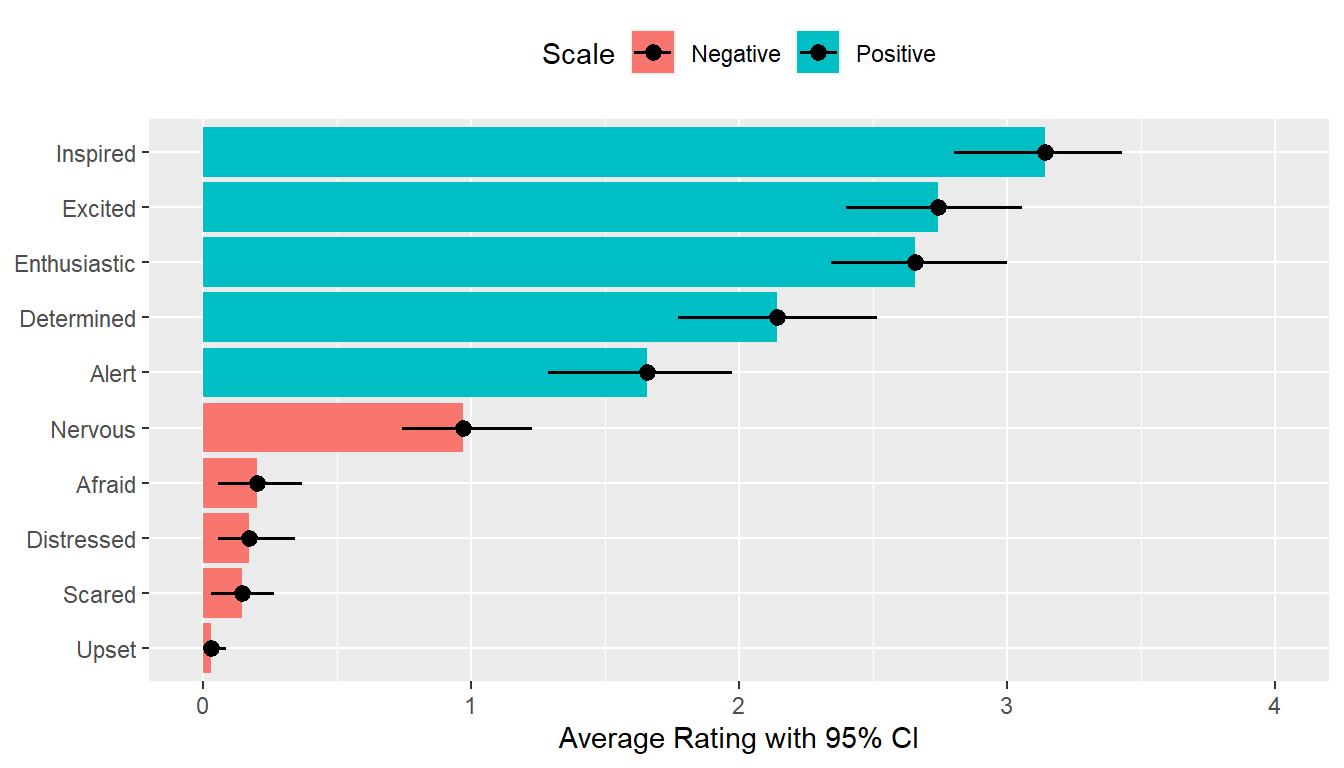
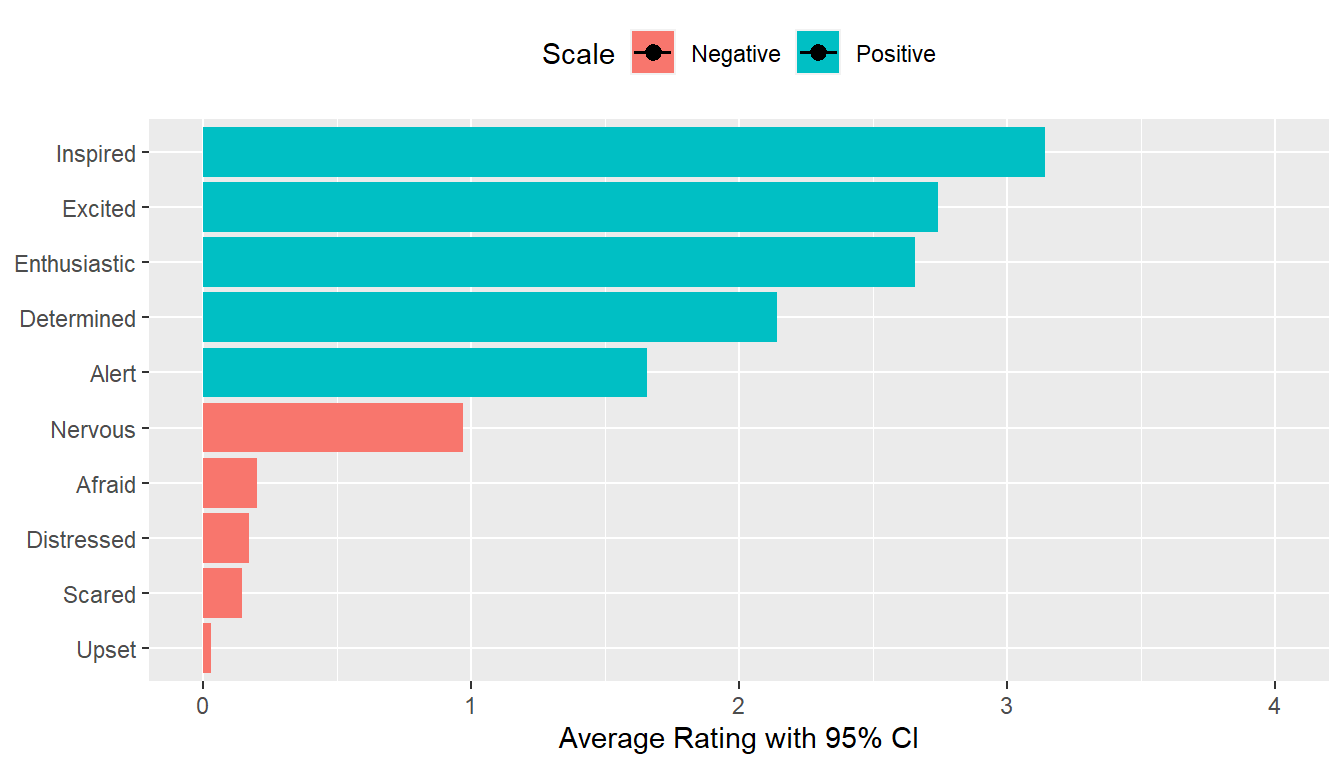
Set up index page and nav

diff --git a/_site/index.html b/_site/index.html
@@ -20,69 +20,6 @@ ul.task-list li input[type="checkbox"] {
   margin: 0 0.8em 0.2em -1.6em;
   vertical-align: middle;
 }
-pre > code.sourceCode { white-space: pre; position: relative; }
-pre > code.sourceCode > span { display: inline-block; line-height: 1.25; }
-pre > code.sourceCode > span:empty { height: 1.2em; }
-.sourceCode { overflow: visible; }
-code.sourceCode > span { color: inherit; text-decoration: inherit; }
-div.sourceCode { margin: 1em 0; }
-pre.sourceCode { margin: 0; }
-@media screen {
-div.sourceCode { overflow: auto; }
-}
-@media print {
-pre > code.sourceCode { white-space: pre-wrap; }
-pre > code.sourceCode > span { text-indent: -5em; padding-left: 5em; }
-}
-pre.numberSource code
-  { counter-reset: source-line 0; }
-pre.numberSource code > span
-  { position: relative; left: -4em; counter-increment: source-line; }
-pre.numberSource code > span > a:first-child::before
-  { content: counter(source-line);
-    position: relative; left: -1em; text-align: right; vertical-align: baseline;
-    border: none; display: inline-block;
-    -webkit-touch-callout: none; -webkit-user-select: none;
-    -khtml-user-select: none; -moz-user-select: none;
-    -ms-user-select: none; user-select: none;
-    padding: 0 4px; width: 4em;
-    color: #aaaaaa;
-  }
-pre.numberSource { margin-left: 3em; border-left: 1px solid #aaaaaa;  padding-left: 4px; }
-div.sourceCode
-  {   }
-@media screen {
-pre > code.sourceCode > span > a:first-child::before { text-decoration: underline; }
-}
-code span.al { color: #ff0000; font-weight: bold; } /* Alert */
-code span.an { color: #60a0b0; font-weight: bold; font-style: italic; } /* Annotation */
-code span.at { color: #7d9029; } /* Attribute */
-code span.bn { color: #40a070; } /* BaseN */
-code span.bu { color: #008000; } /* BuiltIn */
-code span.cf { color: #007020; font-weight: bold; } /* ControlFlow */
-code span.ch { color: #4070a0; } /* Char */
-code span.cn { color: #880000; } /* Constant */
-code span.co { color: #60a0b0; font-style: italic; } /* Comment */
-code span.cv { color: #60a0b0; font-weight: bold; font-style: italic; } /* CommentVar */
-code span.do { color: #ba2121; font-style: italic; } /* Documentation */
-code span.dt { color: #902000; } /* DataType */
-code span.dv { color: #40a070; } /* DecVal */
-code span.er { color: #ff0000; font-weight: bold; } /* Error */
-code span.ex { } /* Extension */
-code span.fl { color: #40a070; } /* Float */
-code span.fu { color: #06287e; } /* Function */
-code span.im { color: #008000; font-weight: bold; } /* Import */
-code span.in { color: #60a0b0; font-weight: bold; font-style: italic; } /* Information */
-code span.kw { color: #007020; font-weight: bold; } /* Keyword */
-code span.op { color: #666666; } /* Operator */
-code span.ot { color: #007020; } /* Other */
-code span.pp { color: #bc7a00; } /* Preprocessor */
-code span.sc { color: #4070a0; } /* SpecialChar */
-code span.ss { color: #bb6688; } /* SpecialString */
-code span.st { color: #4070a0; } /* String */
-code span.va { color: #19177c; } /* Variable */
-code span.vs { color: #4070a0; } /* VerbatimString */
-code span.wa { color: #60a0b0; font-weight: bold; font-style: italic; } /* Warning */
 </style>
 
 
@@ -143,13 +80,20 @@ code span.wa { color: #60a0b0; font-weight: bold; font-style: italic; } /* Warni
           <div class="collapse navbar-collapse" id="navbarCollapse">
             <ul class="navbar-nav navbar-nav-scroll me-auto">
   <li class="nav-item">
-    <a class="nav-link active" href="./index.html" aria-current="page">
- <span class="menu-text">Home</span></a>
+    <a class="nav-link" href="./overview.html">
+ <span class="menu-text">Overview</span></a>
   </li>  
-  <li class="nav-item">
-    <a class="nav-link" href="./about.html">
- <span class="menu-text">About</span></a>
+  <li class="nav-item dropdown ">
+    <a class="nav-link dropdown-toggle" href="#" id="nav-menu-film-clips" role="button" data-bs-toggle="dropdown" aria-expanded="false">
+ <span class="menu-text">Film Clips</span>
+    </a>
+    <ul class="dropdown-menu" aria-labelledby="nav-menu-film-clips">    
+        <li>
+    <a class="dropdown-item" href="./akeelah.html">
+ <span class="dropdown-text">Akeelah</span></a>
   </li>  
+    </ul>
+  </li>
 </ul>
               <div id="quarto-search" class="" title="Search"></div>
           </div> <!-- /navcollapse -->
@@ -183,14 +127,10 @@ code span.wa { color: #60a0b0; font-weight: bold; font-style: italic; } /* Warni
 
 </header>
 
-<p>This is a Quarto website.</p>
-<p>To learn more about Quarto websites visit <a href="https://quarto.org/docs/websites" class="uri">https://quarto.org/docs/websites</a>.</p>
-<div class="cell">
-<div class="sourceCode cell-code" id="cb1"><pre class="sourceCode r code-with-copy"><code class="sourceCode r"><span id="cb1-1"><a href="#cb1-1" aria-hidden="true" tabindex="-1"></a><span class="dv">1</span> <span class="sc">+</span> <span class="dv">1</span></span></code><button title="Copy to Clipboard" class="code-copy-button"><i class="bi"></i></button></pre></div>
-<div class="cell-output cell-output-stdout">
-<pre><code>[1] 2</code></pre>
-</div>
-</div>
+<p>This is the webpage for the film-dataset. Within you can find information about the dataset as a whole, about each film clip in the dataset, and about the dataset collection methodology. You can also download the clips and deidentified data for your own research.</p>
+<p><strong>Jeffrey M. Girard</strong>, PhD<br> Department of Psychology<br> University of Kansas<br> <a href="mailto:jmgirard@ku.edu" class="email">jmgirard@ku.edu</a></p>
+<p><strong>Einat Liebenthal</strong>, DSc<br> McLean Hospital<br> Harvard Medical School<br> <a href="mailto:eliebenthal@mclean.harvard.edu" class="email">eliebenthal@mclean.harvard.edu</a></p>
+<p><strong>Yanmei Tie</strong>, PhD, MS<br> Brigam and Women’s Hospital<br> Harvard Medical School<br> <a href="mailto:ytie@bwh.harvard.edu" class="email">ytie@bwh.harvard.edu</a></p>
 
 
 

diff --git a/_site/overview.html b/_site/overview.html
@@ -146,13 +146,20 @@ code span.wa { color: #60a0b0; font-weight: bold; font-style: italic; } /* Warni
           <div class="collapse navbar-collapse" id="navbarCollapse">
             <ul class="navbar-nav navbar-nav-scroll me-auto">
   <li class="nav-item">
-    <a class="nav-link" href="./index.html">
- <span class="menu-text">Home</span></a>
+    <a class="nav-link active" href="./overview.html" aria-current="page">
+ <span class="menu-text">Overview</span></a>
   </li>  
-  <li class="nav-item">
-    <a class="nav-link" href="./about.html">
- <span class="menu-text">About</span></a>
+  <li class="nav-item dropdown ">
+    <a class="nav-link dropdown-toggle" href="#" id="nav-menu-film-clips" role="button" data-bs-toggle="dropdown" aria-expanded="false">
+ <span class="menu-text">Film Clips</span>
+    </a>
+    <ul class="dropdown-menu" aria-labelledby="nav-menu-film-clips">    
+        <li>
+    <a class="dropdown-item" href="./akeelah.html">
+ <span class="dropdown-text">Akeelah</span></a>
   </li>  
+    </ul>
+  </li>
 </ul>
               <div id="quarto-search" class="" title="Search"></div>
           </div> <!-- /navcollapse -->
@@ -203,6 +210,11 @@ code span.wa { color: #60a0b0; font-weight: bold; font-style: italic; } /* Warni
 <h2 class="anchored" data-anchor-id="clip-information">Clip Information</h2>
 <p>The database currently includes 22 video clips, each drawn from a different English-language film and ranging from 130 to 425 seconds in duration (Mdn=238, MAD=96.4). The figure below shows the distribution of the clips’ durations. The table below presents each clip’s abbreviation, source film title (and release year), as well as starting and stopping timestamp in HH:MM:SS format, and duration in seconds.</p>
 <div class="cell">
+<div class="cell-output cell-output-stderr">
+<pre><code>Warning: The `groupOnX` argument of `geom_quasirandom()` is deprecated as of ggbeeswarm
+0.7.1.
+ℹ ggplot2 now handles this case automatically.</code></pre>
+</div>
 <div class="cell-output-display">
 <p><img src="overview_files/figure-html/unnamed-chunk-3-1.png" class="img-fluid" width="480"></p>
 </div>
@@ -663,10 +675,10 @@ code span.wa { color: #60a0b0; font-weight: bold; font-style: italic; } /* Warni
 </div>
 </div>
 <div class="cell">
-<div class="sourceCode cell-code" id="cb1"><pre class="sourceCode r code-with-copy"><code class="sourceCode r"><span id="cb1-1"><a href="#cb1-1" aria-hidden="true" tabindex="-1"></a>ratings <span class="sc">|&gt;</span> </span>
-<span id="cb1-2"><a href="#cb1-2" aria-hidden="true" tabindex="-1"></a>  <span class="fu">mutate</span>(<span class="at">Rater =</span> <span class="fu">fct_reorder</span>(<span class="at">.f =</span> <span class="fu">factor</span>(Rater), <span class="at">.x =</span> Rating, <span class="at">na.rm =</span> <span class="cn">TRUE</span>)) <span class="sc">|&gt;</span> </span>
-<span id="cb1-3"><a href="#cb1-3" aria-hidden="true" tabindex="-1"></a>  <span class="fu">ggplot</span>(<span class="fu">aes</span>(<span class="at">x =</span> Rating, <span class="at">y =</span> Rater)) <span class="sc">+</span> </span>
-<span id="cb1-4"><a href="#cb1-4" aria-hidden="true" tabindex="-1"></a>  <span class="fu">geom_boxplot</span>()</span></code><button title="Copy to Clipboard" class="code-copy-button"><i class="bi"></i></button></pre></div>
+<div class="sourceCode cell-code" id="cb2"><pre class="sourceCode r code-with-copy"><code class="sourceCode r"><span id="cb2-1"><a href="#cb2-1" aria-hidden="true" tabindex="-1"></a>ratings <span class="sc">|&gt;</span> </span>
+<span id="cb2-2"><a href="#cb2-2" aria-hidden="true" tabindex="-1"></a>  <span class="fu">mutate</span>(<span class="at">Rater =</span> <span class="fu">fct_reorder</span>(<span class="at">.f =</span> <span class="fu">factor</span>(Rater), <span class="at">.x =</span> Rating, <span class="at">na.rm =</span> <span class="cn">TRUE</span>)) <span class="sc">|&gt;</span> </span>
+<span id="cb2-3"><a href="#cb2-3" aria-hidden="true" tabindex="-1"></a>  <span class="fu">ggplot</span>(<span class="fu">aes</span>(<span class="at">x =</span> Rating, <span class="at">y =</span> Rater)) <span class="sc">+</span> </span>
+<span id="cb2-4"><a href="#cb2-4" aria-hidden="true" tabindex="-1"></a>  <span class="fu">geom_boxplot</span>()</span></code><button title="Copy to Clipboard" class="code-copy-button"><i class="bi"></i></button></pre></div>
 <div class="cell-output-display">
 <p><img src="overview_files/figure-html/unnamed-chunk-9-1.png" class="img-fluid" width="672"></p>
 </div>

diff --git a/_site/akeelah.html b/_site/akeelah.html
@@ -85,13 +85,20 @@ ul.task-list li input[type="checkbox"] {
           <div class="collapse navbar-collapse" id="navbarCollapse">
             <ul class="navbar-nav navbar-nav-scroll me-auto">
   <li class="nav-item">
-    <a class="nav-link" href="./index.html">
- <span class="menu-text">Home</span></a>
+    <a class="nav-link" href="./overview.html">
+ <span class="menu-text">Overview</span></a>
   </li>  
-  <li class="nav-item">
-    <a class="nav-link" href="./about.html">
- <span class="menu-text">About</span></a>
+  <li class="nav-item dropdown ">
+    <a class="nav-link dropdown-toggle" href="#" id="nav-menu-film-clips" role="button" data-bs-toggle="dropdown" aria-expanded="false">
+ <span class="menu-text">Film Clips</span>
+    </a>
+    <ul class="dropdown-menu" aria-labelledby="nav-menu-film-clips">    
+        <li>
+    <a class="dropdown-item" href="./akeelah.html">
+ <span class="dropdown-text">Akeelah</span></a>
   </li>  
+    </ul>
+  </li>
 </ul>
               <div id="quarto-search" class="" title="Search"></div>
           </div> <!-- /navcollapse -->
@@ -196,11 +203,16 @@ ul.task-list li input[type="checkbox"] {
 <h2 class="anchored" data-anchor-id="holistic-ratings">Holistic Ratings</h2>
 <p>A total of 35 participants watched this film clip and then provided holistic ratings on how the entire clip made them feel. These holistic ratings were completed using five positive emotion scales (i.e., <em>alert</em>, <em>determined</em>, <em>enthusiastic</em>, <em>excited</em>, <em>inspired</em>) and five negative emotion scales (i.e., <em>afraid</em>, <em>distressed</em>, <em>nervous</em>, <em>scared</em>, <em>upset</em>), each rated on an ordinal scale from 0 to 4.</p>
 <div class="cell">
+<div class="cell-output cell-output-stderr">
+<pre><code>Warning: Computation failed in `stat_summary()`
+Caused by error in `fun.data()`:
+! The package `Hmisc` is required.</code></pre>
+</div>
 <div class="cell-output-display">
 <p><img src="akeelah_files/figure-html/unnamed-chunk-4-1.png" class="img-fluid" style="width:100.0%"></p>
 </div>
 </div>
-<p>As seen in the figure above, participants rated all positive emotion scales higher than all negative emotion scales. Ratings of <em>inspired</em>, <em>excited</em>, and <em>enthusiastic</em> were particularly high. Among the negative emotion scales, ratings on <em>nervous</em> were relatively high.</p>
+<p>As seen in the figure above, participants rated all positive emotion scales higher than all negative emotion scales. Ratings of <em>inspired</em>, <em>excited</em>, and <em>enthusiastic</em> were particularly high. Among the negative emotion scales, ratings of <em>nervous</em> were relatively high.</p>
 </section>
 <section id="continuous-ratings" class="level2">
 <h2 class="anchored" data-anchor-id="continuous-ratings">Continuous Ratings</h2>
@@ -227,6 +239,21 @@ ul.task-list li input[type="checkbox"] {
 <h3 class="anchored" data-anchor-id="time-series">Time Series</h3>
 <p>We can plot the distribution of all valence ratings per second of the film clip to get a sense of how its emotional tone changes over time. The solid black line represents the mean of all ratings and the yellow, green, and purple ribbons represent the central 50%, 70%, and 90% of the ratings, respectively.</p>
 <div class="cell">
+<div class="cell-output cell-output-stderr">
+<pre><code>Warning: Computation failed in `stat_summary()`
+Caused by error in `fun.data()`:
+! The package `Hmisc` is required.</code></pre>
+</div>
+<div class="cell-output cell-output-stderr">
+<pre><code>Warning: Computation failed in `stat_summary()`
+Caused by error in `fun.data()`:
+! The package `Hmisc` is required.</code></pre>
+</div>
+<div class="cell-output cell-output-stderr">
+<pre><code>Warning: Computation failed in `stat_summary()`
+Caused by error in `fun.data()`:
+! The package `Hmisc` is required.</code></pre>
+</div>
 <div class="cell-output-display">
 <p><img src="akeelah_files/figure-html/unnamed-chunk-8-1.png" class="img-fluid" style="width:100.0%"></p>
 </div>

diff --git a/_site/about.html b/_site/about.html
@@ -143,13 +143,20 @@ code span.wa { color: #60a0b0; font-weight: bold; font-style: italic; } /* Warni
           <div class="collapse navbar-collapse" id="navbarCollapse">
             <ul class="navbar-nav navbar-nav-scroll me-auto">
   <li class="nav-item">
-    <a class="nav-link" href="./index.html">
- <span class="menu-text">Home</span></a>
+    <a class="nav-link" href="./overview.html">
+ <span class="menu-text">Overview</span></a>
   </li>  
-  <li class="nav-item">
-    <a class="nav-link active" href="./about.html" aria-current="page">
- <span class="menu-text">About</span></a>
+  <li class="nav-item dropdown ">
+    <a class="nav-link dropdown-toggle" href="#" id="nav-menu-film-clips" role="button" data-bs-toggle="dropdown" aria-expanded="false">
+ <span class="menu-text">Film Clips</span>
+    </a>
+    <ul class="dropdown-menu" aria-labelledby="nav-menu-film-clips">    
+        <li>
+    <a class="dropdown-item" href="./akeelah.html">
+ <span class="dropdown-text">Akeelah</span></a>
   </li>  
+    </ul>
+  </li>
 </ul>
               <div id="quarto-search" class="" title="Search"></div>
           </div> <!-- /navcollapse -->

diff --git a/_site/prep_ratings.html b/_site/prep_ratings.html
@@ -143,13 +143,20 @@ code span.wa { color: #60a0b0; font-weight: bold; font-style: italic; } /* Warni
           <div class="collapse navbar-collapse" id="navbarCollapse">
             <ul class="navbar-nav navbar-nav-scroll me-auto">
   <li class="nav-item">
-    <a class="nav-link" href="./index.html">
- <span class="menu-text">Home</span></a>
+    <a class="nav-link" href="./overview.html">
+ <span class="menu-text">Overview</span></a>
   </li>  
-  <li class="nav-item">
-    <a class="nav-link" href="./about.html">
- <span class="menu-text">About</span></a>
+  <li class="nav-item dropdown ">
+    <a class="nav-link dropdown-toggle" href="#" id="nav-menu-film-clips" role="button" data-bs-toggle="dropdown" aria-expanded="false">
+ <span class="menu-text">Film Clips</span>
+    </a>
+    <ul class="dropdown-menu" aria-labelledby="nav-menu-film-clips">    
+        <li>
+    <a class="dropdown-item" href="./akeelah.html">
+ <span class="dropdown-text">Akeelah</span></a>
   </li>  
+    </ul>
+  </li>
 </ul>
               <div id="quarto-search" class="" title="Search"></div>
           </div> <!-- /navcollapse -->
